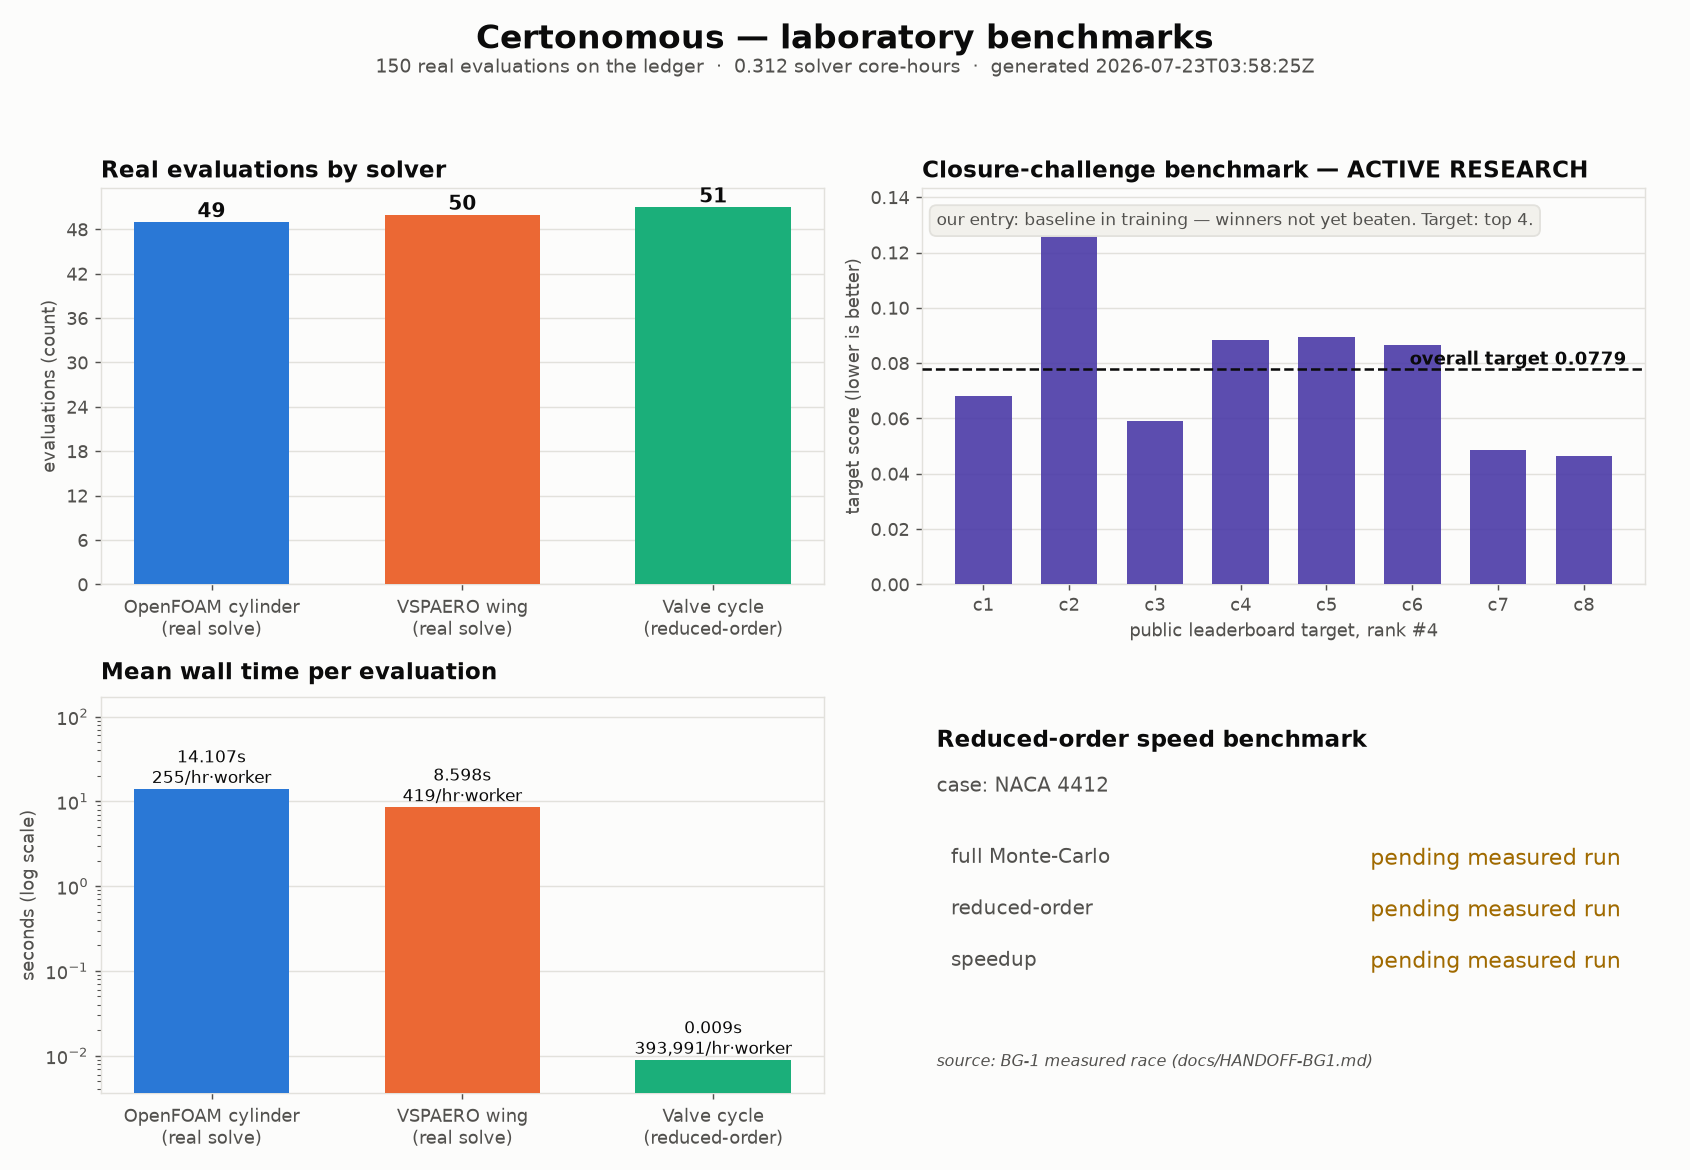
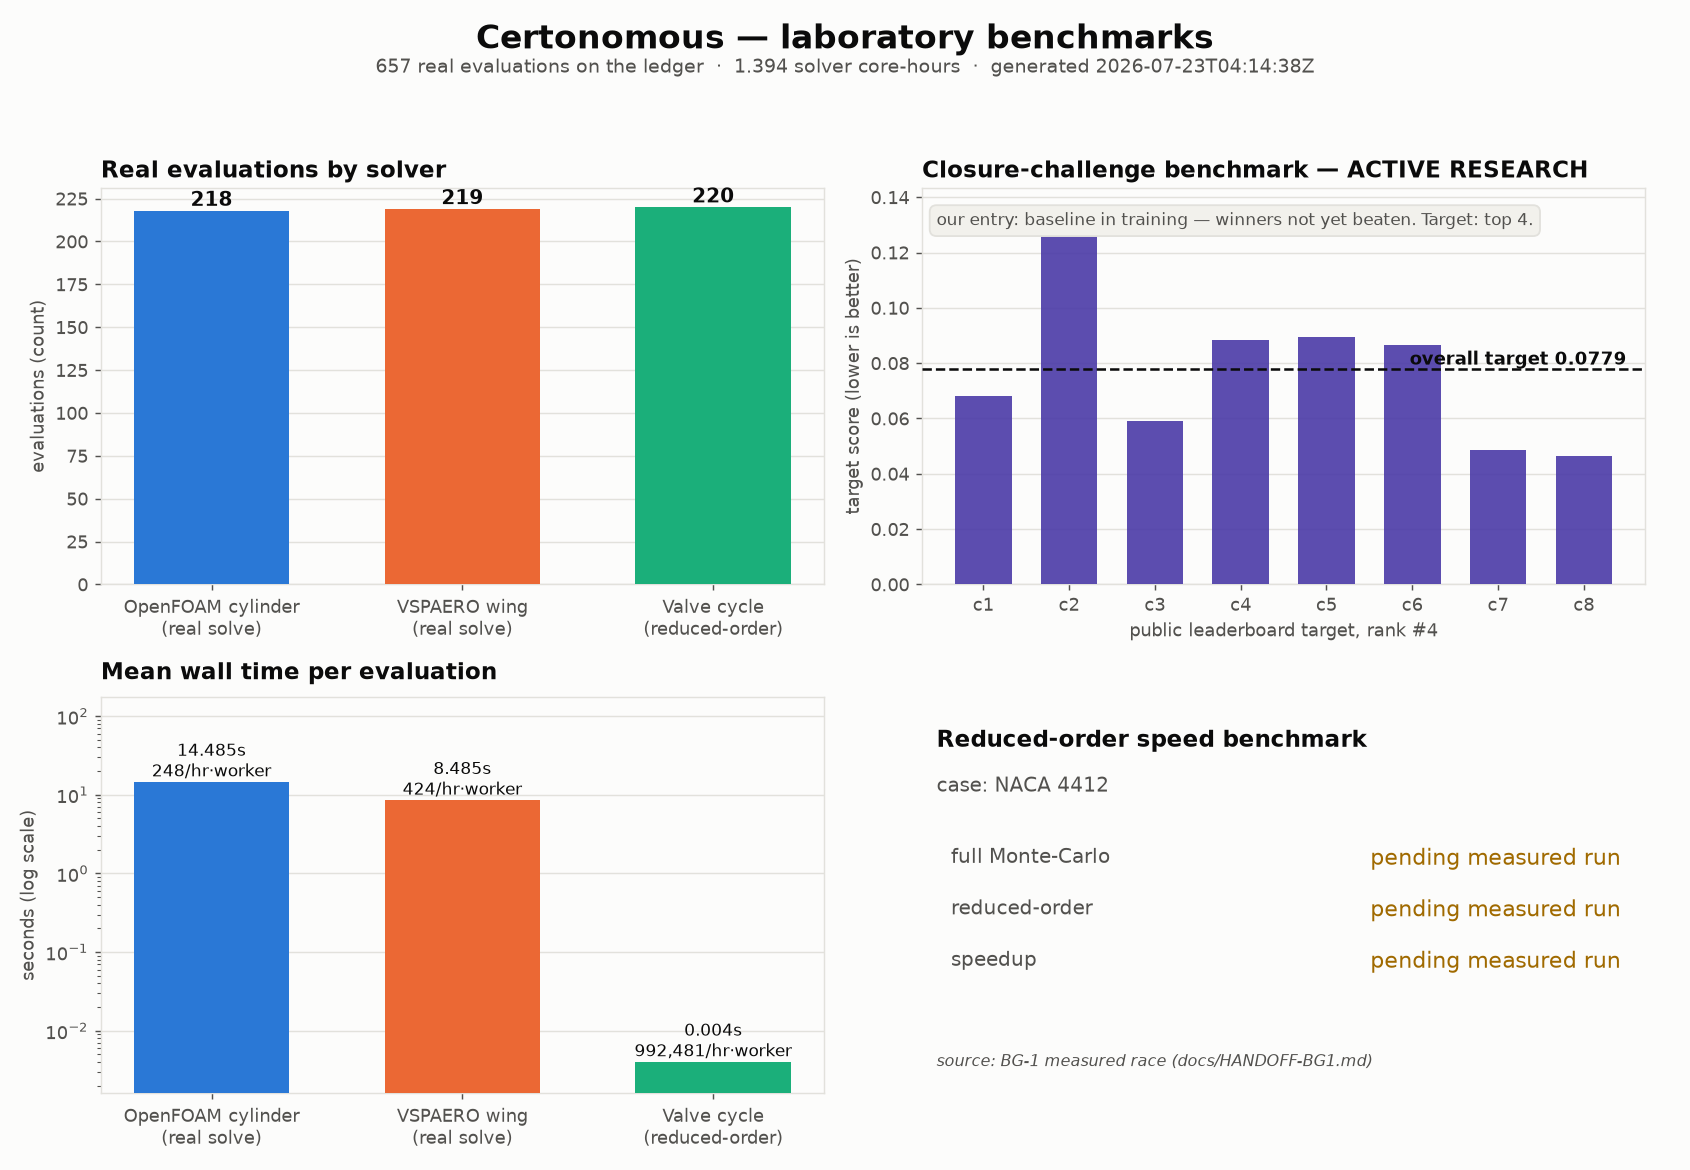
Refresh website artifacts against the growing ledger + morning-refresh script
Regenerated benchmarks.json/png and wall.html/json against the current mega-batch
ledger (657 real evaluations at this checkpoint). Adds
scripts/refresh_website_artifacts.ps1 to regenerate both against the FINAL count
in the morning. The mega-batch continues running.

diff --git a/demo-output/website/wall/wall.html b/demo-output/website/wall/wall.html
@@ -71,8 +71,8 @@
   <div class="cred-kicker">Certonomous · laboratory credentials</div>
   <h2 class="cred-title">What this lab has measured</h2>
     <div class="cred-counters">
-      <div class="cred-counter"><span class="cred-counter-value">226</span><span class="cred-counter-label">missions run</span></div>
-      <div class="cred-counter"><span class="cred-counter-value">0.453</span><span class="cred-counter-label">solver core-hours</span></div>
+      <div class="cred-counter"><span class="cred-counter-value">657</span><span class="cred-counter-label">missions run</span></div>
+      <div class="cred-counter"><span class="cred-counter-value">1.394</span><span class="cred-counter-label">solver core-hours</span></div>
       <div class="cred-counter"><span class="cred-counter-value">8</span><span class="cred-counter-label">knowledge entries</span></div>
       <div class="cred-counter"><span class="cred-counter-value">8</span><span class="cred-counter-label">experimental anchors</span></div>
       <div class="cred-counter"><span class="cred-counter-value">2</span><span class="cred-counter-label">benchmarks active</span></div>
